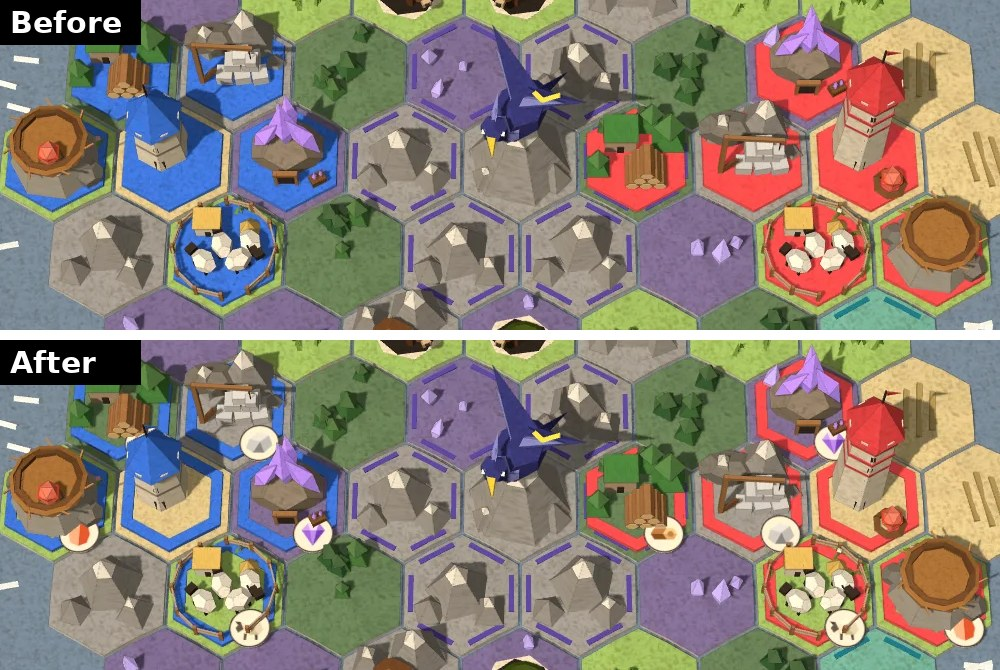
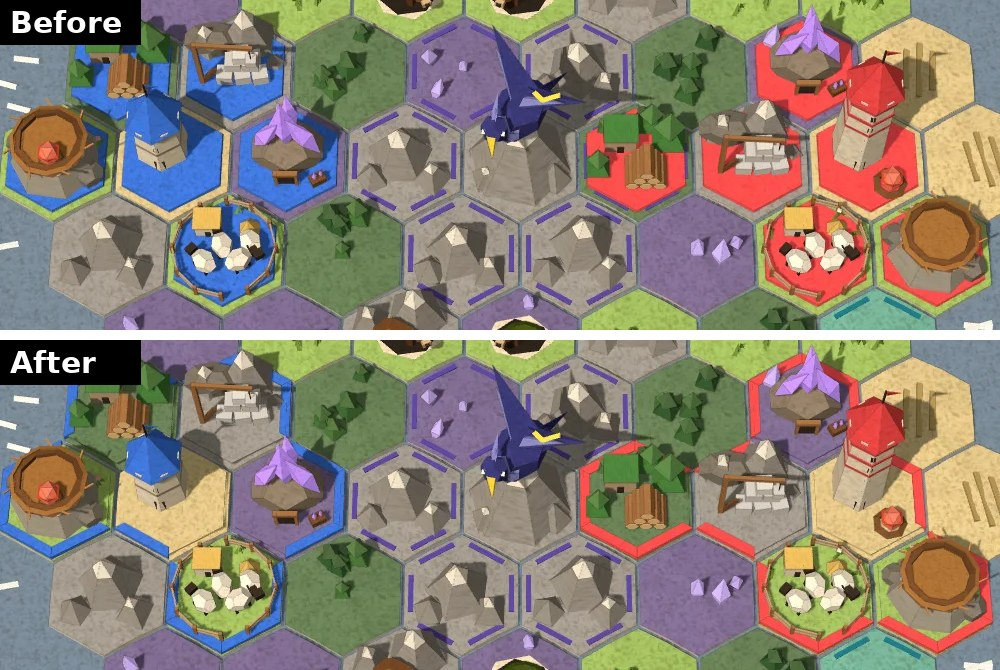
TV: the border goes round each player's whole territory, no tokens (#250)
The user's call: no class tokens, and the owner's border goes round the
territory a player owns, not round each building. A band in their colour
runs just inside each edge of their buildings' hexes where the next hex
isn't theirs. Each building still stands on a card in its terrain's colour.

Claude-Session: https://claude.ai/code/session_01MEmTqCtbUrmQbLSsJYyQTz

Changed region(s): [[0.558, 0.5075, 1.0, 0.9851], [0.0, 0.5075, 0.372, 0.9851]]

diff --git a/web/board3d.ts b/web/board3d.ts
@@ -13,7 +13,6 @@
 import * as THREE from 'three';
 import type { DragonView, HexView, PublicState } from '../src/state.ts';
 import { ELEMENT_COLORS, HOLD_COLORS, PLAYER_COLORS, TERRAIN_COLORS } from './common.ts';
-import { iconFacets } from './icons.ts';
 
 declare global {
   interface Window {
@@ -1452,9 +1451,10 @@ function upgradeMark(key: string): THREE.Group {
   return g;
 }
 
-// What a building stands on: a card in its hex's own terrain colour (so the
-// terrain still reads), ringed by a border in its owner's colour. An upgrade
-// puts a gold rim round the border and its mark (upgradeMark) at the front corner.
+// What a building stands on: a card in its hex's own terrain colour, so the
+// terrain still reads. Its owner shows as their territory's border round it
+// (territoryGeometry). An upgrade puts a gold rim on the card and its mark
+// (upgradeMark) at the front corner.
 function hexRing(outer: number, inner: number, h: number): THREE.BufferGeometry {
   const corners = (r: number) => Array.from({ length: 6 }, (_, i) => new THREE.Vector2(Math.sin((i * Math.PI) / 3) * r, Math.cos((i * Math.PI) / 3) * r));
   const shape = new THREE.Shape(corners(outer));
@@ -1463,80 +1463,49 @@ function hexRing(outer: number, inner: number, h: number): THREE.BufferGeometry 
   geo.rotateX(-Math.PI / 2); // lie flat, its depth going up
   return geo;
 }
-// What kind of building it is, at a glance: a paper token on the front-right
-// edge of its border, in front of it (the upgrade's mark is on the left) with its class's mark, the icons
-// the cards use: what a production building makes, a dragon's egg for a
-// dragon building, points for a monument, gold for a trade building.
-const CLASS_MARK: Record<string, string> = { quarry: 'stone', lumber: 'timber', mine: 'crystal', pasture: 'livestock', dragon: 'egg', monument: 'points', trade: 'gold' };
-const TOKEN_AT: [number, number] = [0.4, 0.6], TOKEN_R = 0.3;
-const TOKEN_FACE = new Map<string, THREE.MeshLambertMaterial>();
-function tokenFace(name: string): THREE.MeshLambertMaterial {
-  let m = TOKEN_FACE.get(name);
-  if (m) return m;
-  const c = document.createElement('canvas');
-  c.width = c.height = 128;
-  const x = c.getContext('2d')!;
-  x.fillStyle = '#f6efdf';
-  x.beginPath();
-  x.arc(64, 64, 62, 0, Math.PI * 2);
-  x.fill();
-  x.lineWidth = 5;
-  x.strokeStyle = '#4a3d45';
-  x.stroke();
-  x.translate(64, 64);
-  x.scale(5, 5);
-  for (const [fill, pts] of iconFacets(name)) {
-    x.fillStyle = fill;
-    x.beginPath();
-    pts.split(' ').forEach((p, i) => {
-      const [px, py] = p.split(',').map(Number);
-      i ? x.lineTo(px, py) : x.moveTo(px, py);
-    });
-    x.closePath();
-    x.fill();
-  }
-  const t = new THREE.CanvasTexture(c);
-  t.colorSpace = THREE.SRGBColorSpace;
-  t.anisotropy = 4;
-  m = new THREE.MeshLambertMaterial({ map: t });
-  TOKEN_FACE.set(name, m);
-  return m;
-}
-function classToken(cls: string): THREE.Group | null {
-  const mark = CLASS_MARK[cls];
-  if (!mark) return null;
+function plate(upgrade: string | null, ground: string): THREE.Group {
   const g = new THREE.Group();
-  g.add(part(cyl(TOKEN_R, TOKEN_R, 0.04, 16), '#e9dfc8', { at: [0, 0.02, 0] }));
-  const face = new THREE.Mesh(new THREE.CircleGeometry(TOKEN_R, 32), tokenFace(mark));
-  face.rotation.x = -Math.PI / 2;
-  face.position.y = 0.041;
-  face.receiveShadow = true;
-  g.add(face);
-  return g;
-}
-const BORDER_IN = 0.66;
-function plate(owner: number, upgrade: string | null, cls: string | null, ground: string, mats: THREE.MeshLambertMaterial[]): THREE.Group {
-  const g = new THREE.Group();
-  const token = cls ? classToken(cls) : null;
-  if (token) {
-    token.position.set(TOKEN_AT[0], TOP + PLATE_H * 1.5, TOKEN_AT[1]); // on the border
-    g.add(token);
-  }
-  const out = upgrade ? 0.79 : 0.85;
-  if (upgrade) g.add(part(hexRing(0.88, out - 0.01, PLATE_H * 1.1), GOLD, { at: [0, TOP, 0] }));
-  g.add(part(cyl(BORDER_IN + 0.01, BORDER_IN + 0.01, PLATE_H, 6), ground, { at: [0, TOP + PLATE_H / 2, 0] }));
-  const m = new THREE.Mesh(hexRing(out, BORDER_IN, PLATE_H * 1.5), mats[owner]);
-  m.position.y = TOP;
-  m.receiveShadow = true;
-  m.add(new THREE.LineSegments(new THREE.EdgesGeometry(m.geometry, 25), CREASE));
-  g.add(m);
+  g.add(part(cyl(0.9, 0.9, PLATE_H, 6), ground, { at: [0, TOP + PLATE_H / 2, 0], crease: false }));
   if (upgrade) {
+    g.add(part(hexRing(0.78, 0.7, PLATE_H * 1.4), GOLD, { at: [0, TOP, 0] }));
     const mark = bake(upgradeMark(upgrade));
     mark.scale.setScalar(1.6);
     mark.position.set(UPGRADE_AT[0], GROUND, UPGRADE_AT[1]);
     g.add(mark);
   }
   return g;
+}
+
+// A player's territory, the hexes their buildings stand on, bordered in their
+// colour: a band just inside each edge where the next hex isn't theirs, so
+// their hexes read as one region, and two players' regions side by side each
+// keep their own line.
+const BORDER_R = 0.965, BORDER_W = 0.17; // the band, from the tile's edge in (as a corner radius)
+function territoryGeometry(hexes: [number, number][]): THREE.BufferGeometry | null {
+  const key = (x: number, z: number) => `${Math.round(x * 10)},${Math.round(z * 10)}`;
+  const mine = new Set(hexes.map(([x, z]) => key(x, z)));
+  const corner = (x: number, z: number, i: number, r: number) => {
+    const a = (Math.PI / 180) * (60 * i - 30);
+    return new THREE.Vector2(x + r * Math.cos(a), -(z + r * Math.sin(a)));
+  };
+  const parts: THREE.BufferGeometry[] = [];
+  for (const [x, z] of hexes) {
+    for (let i = 0; i < 6; i++) {
+      const a = (Math.PI / 180) * 60 * i; // the edge from corner i to i + 1 faces this way
+      if (mine.has(key(x + SQ3 * Math.cos(a), z + SQ3 * Math.sin(a)))) continue;
+      const shape = new THREE.Shape([corner(x, z, i, BORDER_R), corner(x, z, i + 1, BORDER_R), corner(x, z, i + 1, BORDER_R - BORDER_W), corner(x, z, i, BORDER_R - BORDER_W)]);
+      const geo = new THREE.ExtrudeGeometry(shape, { depth: PLATE_H * 1.5, bevelEnabled: false });
+      geo.rotateX(-Math.PI / 2);
+      parts.push(geo.toNonIndexed());
+    }
+  }
+  if (!parts.length) return null;
+  const merged = new THREE.BufferGeometry();
+  for (const [name, size] of [['position', 3], ['normal', 3], ['uv', 2]] as const) {
+    merged.setAttribute(name, new THREE.Float32BufferAttribute(parts.flatMap((g) => Array.from(g.getAttribute(name).array as Float32Array)), size));
+  }
+  parts.forEach((g) => g.dispose());
+  return merged;
 }
 
 // ---------- dragons ----------
@@ -1737,6 +1706,8 @@ export class Board3D {
   private tiles = new Map<string, { hex: HexView; decorSig: string }>();
   private decor = new THREE.Group(); // everything growing on the map, merged
   private built = new Map<string, Built>();
+  private territory = new THREE.Group(); // every player's territory border
+  private territorySig = '';
   private beasts = new Map<string, Built>(); // fauna, by hex
   private dragons = new Map<string, DragonEntry>();
   private plateMats = PLAYER_COLORS.map((c) => new THREE.MeshLambertMaterial({ color: c, map: null, flatShading: true }));
@@ -1854,6 +1825,7 @@ export class Board3D {
       this.built.set(h.k, { sig: bsig, obj, born: at });
       if (fresh) this.mark(h, at);
     }
+    this.drawTerritory(g.map);
     // Fauna: on its dark lair in the middle of an open hex, or out in front
     // of the building it shuts down. It folds up like a building when it
     // arrives, unless it wandered in from the next hex: then it walks over.
@@ -1897,6 +1869,29 @@ export class Board3D {
     }
     this.placeDragons(g, animate, now);
     this.firstUpdate = false;
+  }
+
+  // Each player's territory border, redrawn when whose buildings are where changes.
+  private drawTerritory(map: HexView[]) {
+    const sig = map.filter((h) => h.building).map((h) => `${h.k}:${h.building!.owner}`).join();
+    if (sig === this.territorySig) return;
+    this.territorySig = sig;
+    for (const c of [...this.territory.children]) {
+      this.territory.remove(c);
+      dispose(c);
+    }
+    const byOwner = new Map<number, [number, number][]>();
+    for (const h of map) if (h.building) byOwner.set(h.building.owner, [...(byOwner.get(h.building.owner) ?? []), hexXZ(h.q, h.r)]);
+    for (const [owner, hexes] of byOwner) {
+      const geo = territoryGeometry(hexes);
+      if (!geo) continue;
+      const m = new THREE.Mesh(geo, this.plateMats[owner]);
+      m.position.y = TOP;
+      m.receiveShadow = true;
+      m.add(new THREE.LineSegments(new THREE.EdgesGeometry(geo, 25), CREASE));
+      this.territory.add(m);
+    }
+    if (!this.territory.parent) this.world.add(this.territory);
   }
 
   private mark(h: HexView, now: number) {
@@ -1975,7 +1970,7 @@ export class Board3D {
   }
 
   private buildingGroup(b: NonNullable<HexView['building']>, terrain: string, facing: number, shut: boolean): THREE.Group {
-    const g = plate(b.owner, b.upgrade, b.type === 'tower' ? null : b.cls, tileColor(terrain), this.plateMats);
+    const g = plate(b.upgrade, tileColor(terrain));
     const { model: parts, offset } = buildingModel(b);
     const model = bake(parts);
     // Shut down by a beast: the building goes to dull grey paper (its border
@@ -2336,7 +2331,7 @@ export class Board3D {
       const fade = Math.max(0, Math.min(1, age / 0.4)) * (1 - smooth(FRESH_S - 3, FRESH_S, age));
       (m.mesh.material as THREE.MeshBasicMaterial).opacity = fade * (0.8 + 0.2 * Math.cos(age * 3.5));
     }
-    // The acting player's plates glow gently.
+    // The acting player's territory border glows gently.
     this.plateMats.forEach((m, i) => {
       const on = this.highlight === i;
       m.emissive.set(on ? PLAYER_COLORS[i] : '#000');

diff --git a/web/icons.ts b/web/icons.ts
@@ -372,12 +372,7 @@ export const ICON_NAMES = Object.keys(ICONS);
 const LABEL: Record<string, string> = { points: 'points', cards: 'cards', raid: 'raid', shield: 'combat power', talk: 'table talk', secret: 'secret', public: 'everyone sees it', tower: 'tallest tower', hoard: 'largest hoard', d4: 'four-sided die', d6: 'six-sided die', d8: 'eight-sided die', d4face: 'four-sided die', d6face: 'six-sided die', d8face: 'eight-sided die',
   workshop: 'Workshop', nesting_grounds: 'Nesting Grounds', trade_charter: 'Trade Charter',
   militia: 'Militia', archers: 'Archers', knights: 'Knights', frost_golem: 'Frost Golem', storm_griffin: 'Storm Griffin', sea_serpent: 'Sea Serpent',
-  egg: 'dragon egg', wolf_pack: 'Wolf Pack', cave_bear: 'Cave Bear', basilisk: 'Basilisk', thunderbird: 'Thunderbird', leviathan: 'Leviathan' };
-
-// An icon's polygons (fill, points on the -10..10 box), to draw it elsewhere (the TV board's canvas).
-export function iconFacets(name: string): [fill: string, points: string][] {
-  return ICONS[name] ?? [];
-}
+  wolf_pack: 'Wolf Pack', cave_bear: 'Cave Bear', basilisk: 'Basilisk', thunderbird: 'Thunderbird', leviathan: 'Leviathan' };
 
 // Just the shapes, to draw an icon inside another SVG (on the -10..10 box).
 export function iconShapes(name: string): string {
@@ -790,9 +785,6 @@ export function buildingShapes(type: string, pc?: string): string {
 ICONS.tower = buildingFacets('tower')!;
 // The Largest Hoard title: a pile of coins, two below and one on top.
 ICONS.hoard = [...moved(ICONS.gold, -4.2, 3.6, 0.62), ...moved(ICONS.gold, 4.2, 3.6, 0.62), ...moved(ICONS.gold, 0, -3.4, 0.62)];
-
-// A dragon's egg: the dragon buildings' mark on the TV board's class tokens.
-ICONS.egg = EGG(0, 8.5, 17, '#ffb08a', '#d9542e');
 
 // ---- upgrades: what each puts beside its building on the TV board ----
 // A workshop's cog.
